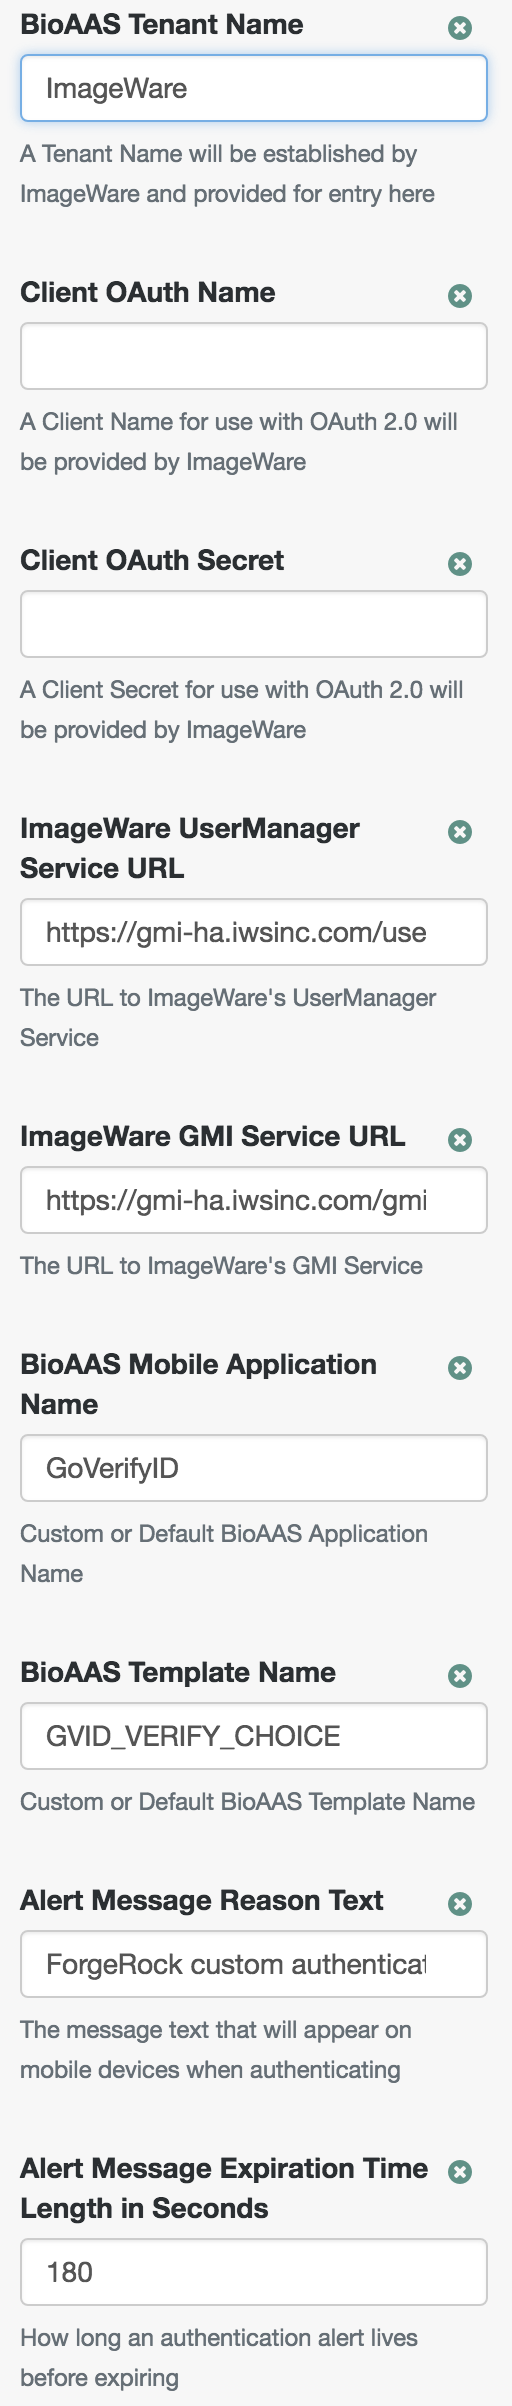
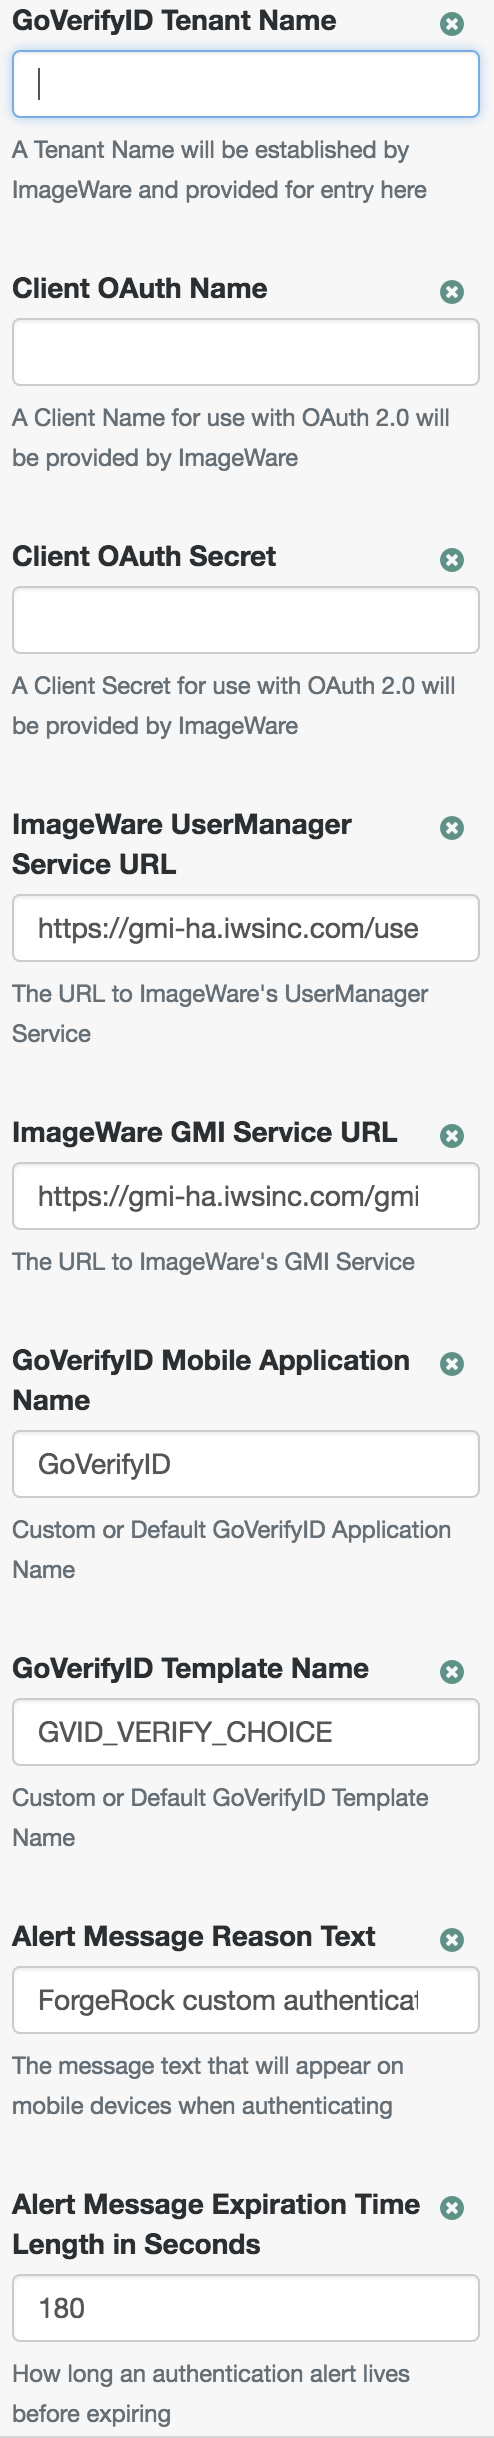
name changes and image update

diff --git a/ValidateUser/src/main/java/com/iws/forgerock/ValidateUser.java b/ValidateUser/src/main/java/com/iws/forgerock/ValidateUser.java
@@ -285,7 +285,7 @@ public class ValidateUser extends AbstractDecisionNode
 						
 						if (message == null || message.getMessageId() == null)
 						{
-							debug.error("[" + DEBUG_FILE + "]: " + "biometricVerifyUser cannot read GMI Message");
+							debug.error("[" + DEBUG_FILE + "]: " + "biometricVerifyUser cannot read GoVerifyID server Message");
 							return false;
 							
 						}
@@ -299,7 +299,7 @@ public class ValidateUser extends AbstractDecisionNode
 					}
 					else
 					{
-						debug.error("[" + DEBUG_FILE + "]: " + "GMI verification failed in {} error response: '{}: {}'", Constants.IMAGEWARE_APPLICATION_NAME, response.getStatusLine().getStatusCode(), response.getStatusLine().getReasonPhrase());
+						debug.error("[" + DEBUG_FILE + "]: " + "GoVerifyID verification failed in {} error response: '{}: {}'", Constants.IMAGEWARE_APPLICATION_NAME, response.getStatusLine().getStatusCode(), response.getStatusLine().getReasonPhrase());
 					}
 				}
 			}

diff --git a/ValidateUser/src/main/java/com/iws/forgerock/Constants.java b/ValidateUser/src/main/java/com/iws/forgerock/Constants.java
@@ -6,6 +6,6 @@ public class Constants
 	public static final String IMAGEWARE_OAUTH_BEARER_TOKEN = "IMAGEWARE_OAUTH_BEARER_TOKEN";
 	public static final String IMAGEWARE_VERIFY_URL = "IMAGEWARE_VERIFY_URL";
 	public static final String IMAGEWARE_USER = "IMAGEWARE_USER";
-	public static final String IMAGEWARE_APPLICATION_NAME = "ImageWare GoVerifyID/GMI";
+	public static final String IMAGEWARE_APPLICATION_NAME = "ImageWare GoVerifyID";
 
 }
